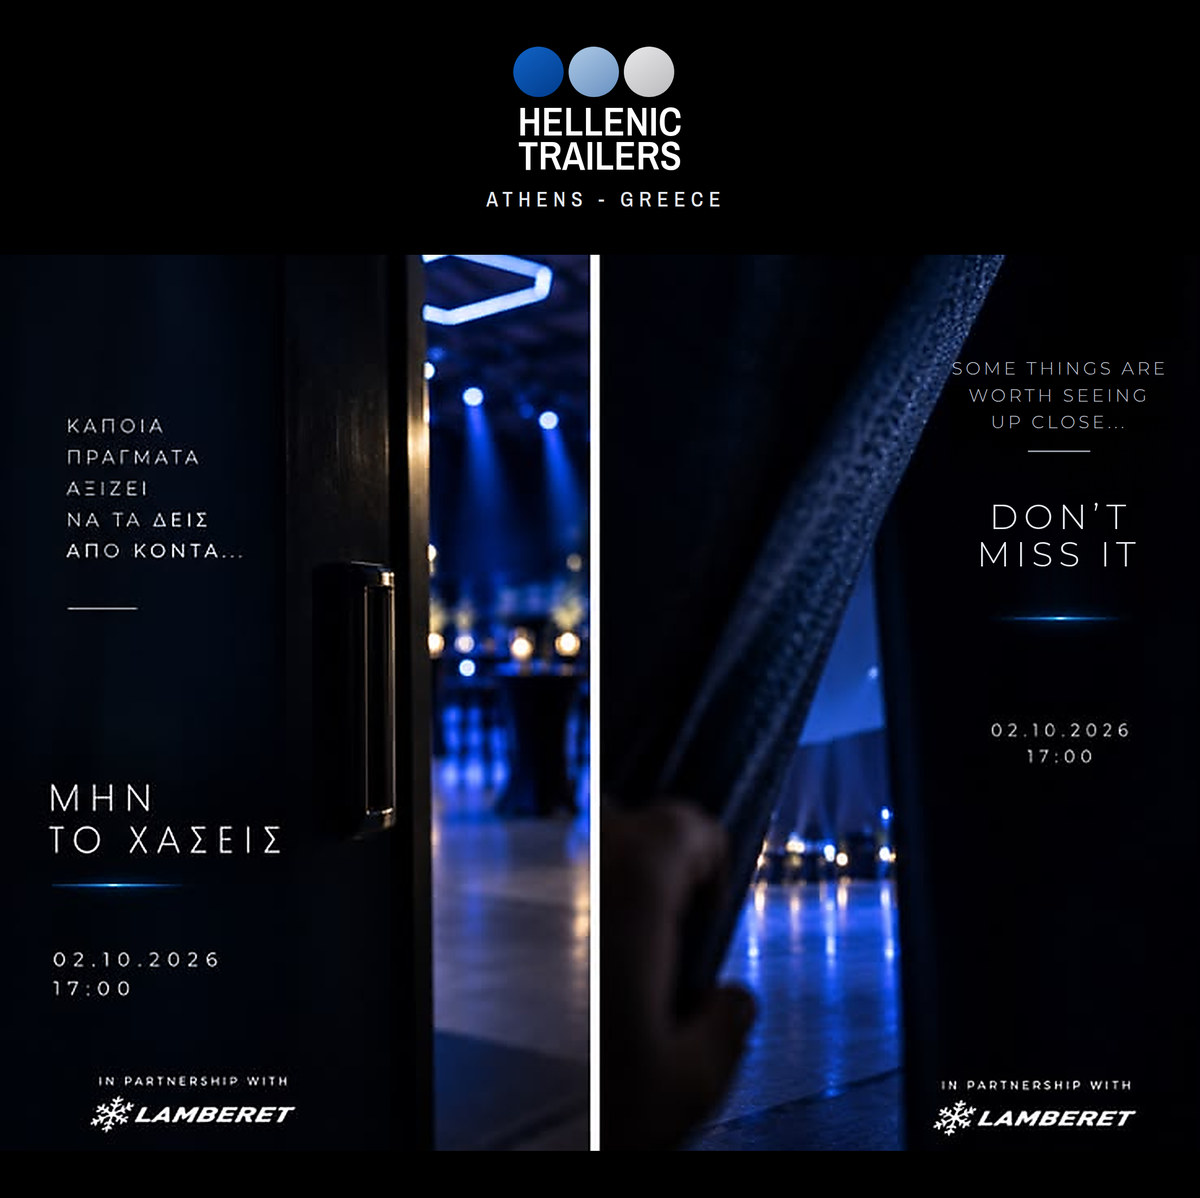
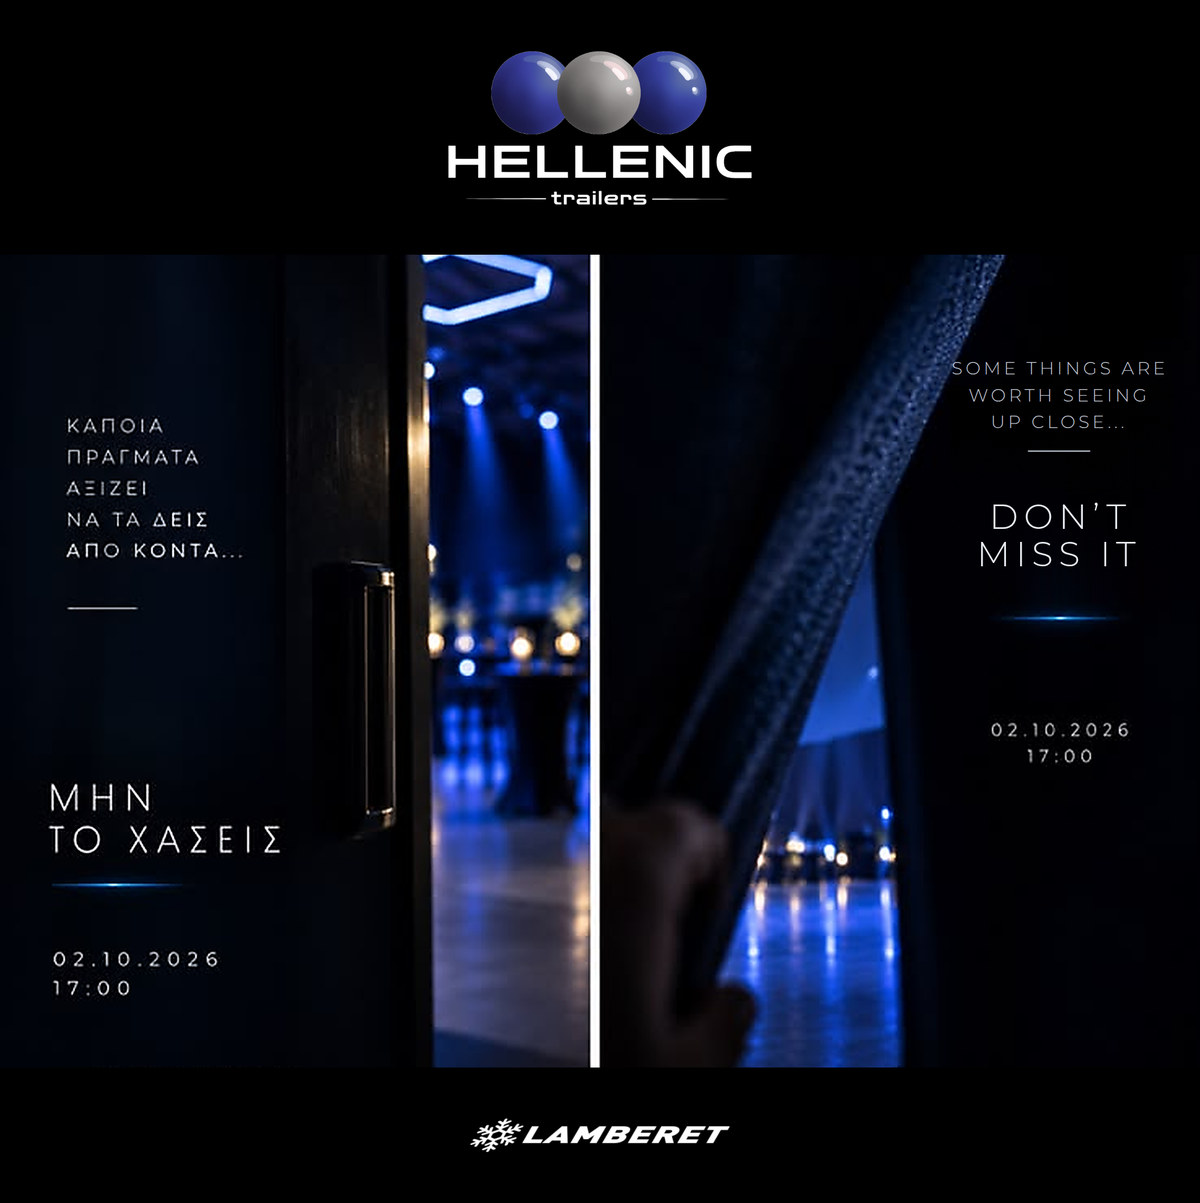
Use the company's own marks: Hellenic above, Lamberet below
Both marks now come from the repository rather than from the artwork:
logo-original.png at 2000x2000 and logo-lamberet.png. Each is dark on a
white ground, so neither reads on black — the ground is keyed out and the
wordmarks are knocked to white, while the three spheres keep their colours.
The wordmark's drop shadow is cut, or it renders as a white halo.

The strip at the foot of each panel went the same way as the one at the
head: gone, with a single Lamberet mark in a band of its own and no "in
partnership with" over it. Each mark now appears exactly once.

Claude-Session: https://claude.ai/code/session_01XY3hbV9Y9AwJjAF55ouYc1

diff --git a/.claude/drafts/2026-10-02-ypenthymisi.md b/.claude/drafts/2026-10-02-ypenthymisi.md
@@ -102,21 +102,20 @@
 
 | Αρχείο | Μέγεθος | Χρήση |
 |---|---|---|
-| `images/reminder-2026-10-02.jpg` | 2214×2210 | το πρωτότυπο |
-| `images/reminder-2026-10-02-email.jpg` | 1200×1198 | αυτό μπαίνει στο campaign |
+| `images/reminder-2026-10-02.jpg` | 2214×2220 | το πρωτότυπο |
+| `images/reminder-2026-10-02-email.jpg` | 1200×1203 | αυτό μπαίνει στο campaign |
 
-Το δίπτυχο «ΜΗΝ ΤΟ ΧΑΣΕΙΣ / DON'T MISS IT», ελληνικά αριστερά, αγγλικά δεξιά,
-με **ένα** λογότυπο Hellenic Trailers σε μαύρη λωρίδα στην κορυφή.
+Το δίπτυχο «ΜΗΝ ΤΟ ΧΑΣΕΙΣ / DON'T MISS IT», ελληνικά αριστερά, αγγλικά δεξιά.
+**Ένα** σήμα Hellenic Trailers σε μαύρη λωρίδα πάνω, **ένα** Lamberet κάτω,
+χωρίς το «in partnership with».
 
 | Ελληνικά (αριστερά) | Αγγλικά (δεξιά) |
 |---|---|
 | ΚΑΠΟΙΑ ΠΡΑΓΜΑΤΑ ΑΞΙΖΕΙ ΝΑ ΤΑ ΔΕΙΣ ΑΠΟ ΚΟΝΤΑ... | SOME THINGS ARE WORTH SEEING UP CLOSE... |
 | ΜΗΝ ΤΟ ΧΑΣΕΙΣ | DON'T MISS IT |
 
-Η ημερομηνία `02.10.2026 17:00`, η λάμψη κάτω από τον τίτλο και το «IN
-PARTNERSHIP WITH LAMBERET» έμειναν όπως ήταν. **Το «IN PARTNERSHIP WITH
-LAMBERET» εξακολουθεί να εμφανίζεται δύο φορές**, μία σε κάθε πάνελ — δεν
-ζητήθηκε να ενοποιηθεί, φεύγει με τον ίδιο τρόπο αν ζητηθεί.
+Η ημερομηνία `02.10.2026 17:00` και η λάμψη κάτω από τον τίτλο έμειναν όπως
+ήταν.
 
 **Alt text:**
 ```
@@ -133,33 +132,32 @@ LAMBERET» εξακολουθεί να εμφανίζεται δύο φορές*
 ### Πώς φτιάχτηκε, και πού είναι το ταβάνι
 
 **Η πηγή είναι στιγμιότυπο οθόνης, 738 px πλάτος.** Αυτό ορίζει το όριο: ό,τι
-πάνω από αυτό είναι παρεμβολή, όχι πραγματική λεπτομέρεια. Για να βγει κάτι
-γνήσια υψηλής ανάλυσης χρειάζονται τα **αρχικά αρχεία του teaser** και το
-**λογότυπο σε λευκή εκδοχή** (PNG ή SVG) — με αυτά ξαναβγαίνει σε όποιο μέγεθος
-χρειαστεί, χωρίς κανένα από τα παρακάτω τεχνάσματα.
+πάνω από αυτό είναι παρεμβολή, όχι πραγματική λεπτομέρεια. Για κάτι γνήσια
+υψηλής ανάλυσης χρειάζονται τα **αρχικά αρχεία του teaser**.
 
-Τι έγινε με όσα υπήρχαν:
-
+- **Τα δύο σήματα σε κάθε πάνελ δεν σβήστηκαν επί τόπου.** Στο δεξί πάνελ το
+  σήμα ακουμπάει την κουρτίνα και το μπάλωμα άφηνε σημάδι. Κόπηκαν οι δύο
+  λωρίδες που τα κρατούσαν — 285 px πάνω, 240 px κάτω — και μπήκαν στη θέση
+  τους μαύρες λωρίδες με ένα σήμα η καθεμία.
+- **Τα σήματα είναι τα κανονικά της εταιρείας, από το repository**:
+  `images/logo-original.png` (2000×2000) και `images/logo-lamberet.png`. Και τα
+  δύο είναι σκούρα σε λευκό φόντο, άρα δεν διαβάζονται σε μαύρο. Το φόντο
+  αφαιρέθηκε με flood fill από τις γωνίες, και το λεκτικό γυρίστηκε σε λευκό —
+  **οι τρεις σφαίρες κρατούν τα χρώματά τους**, μόνο το «HELLENIC trailers»
+  έγινε λευκό. Η σκιά του λεκτικού κόπηκε (κατώφλι φωτεινότητας 200/140),
+  αλλιώς έβγαινε λευκή λάμψη γύρω από τα γράμματα. Το Lamberet είχε ήδη σωστό
+  κανάλι διαφάνειας και απλώς βάφτηκε λευκό.
 - **Η φωτογραφία** μεγεθύνθηκε ×3 με Lanczos και μετά unsharp mask (ακτίνα 1,8,
   170%, κατώφλι 3). Το κατώφλι προστατεύει τα σχεδόν μαύρα επίπεδα από θόρυβο.
-  Χωρίς αυτό, τα ελληνικά έβγαιναν αισθητά πιο θολά από τα φρεσκογραμμένα
+  Χωρίς αυτό τα ελληνικά έβγαιναν αισθητά πιο θολά από τα φρεσκογραμμένα
   αγγλικά και η διαφορά φαινόταν.
 - **Τα ελληνικά δεν ξαναγράφτηκαν.** Το Montserrat δεν έχει ελληνικά στο Google
   Fonts, και μια άλλη γραμματοσειρά θα άλλαζε εικόνα που έχει ήδη εγκριθεί.
 - **Τα αγγλικά** μπήκαν σε Montserrat Light με headless Chromium, στις μετρήσεις
   του πρωτοτύπου: άξονας στο x=565 του πάνελ, ύψος κεφαλαίου 30 px για τον
   τίτλο και 15 px για το teaser, αποστάσεις γραμμών 46 και 33 px (σε κλίμακα
-  ×2· στην τελική εικόνα ×1,5 αυτών).
-- **Τα δύο λογότυπα** δεν σβήστηκαν επί τόπου: στο δεξί πάνελ το λογότυπο
-  ακουμπάει την κουρτίνα και το μπάλωμα άφηνε σημάδι. Κόπηκε ολόκληρη η λωρίδα
-  των 285 px που τα κρατούσε, και μπήκε μαύρη λωρίδα με ένα λογότυπο.
-- **Το λογότυπο ξαναφτιάχτηκε**, γιατί στο πρωτότυπο είναι μόλις 95×70 px και
-  μεγεθυμένο γίνεται πολτός. Οι τρεις κύκλοι και η στοίχιση μετρήθηκαν από την
-  εικόνα· η γραμματοσειρά είναι **Archivo Narrow 600**, που έπεσε σχεδόν πάνω
-  στις αναλογίες του πρωτοτύπου (πλάτος/ύψος κεφαλαίου 5,59 έναντι 5,65). Οι
-  δύο λέξεις είναι τραβηγμένες στο ίδιο πλάτος, όπως και στο πρωτότυπο.
-- **Τα ελληνικά κείμενα του δεξιού πάνελ** σβήστηκαν με Coons patch πάνω στο
-  περίγραμμα της περιοχής — δουλεύει επειδή το φόντο εκεί είναι σχεδόν καθαρό
+  ×2· στην τελική εικόνα ×1,5 αυτών). Τα ελληνικά κείμενα του δεξιού πάνελ
+  σβήστηκαν με Coons patch — δουλεύει επειδή το φόντο εκεί είναι σχεδόν καθαρό
   μαύρο (γύρω στο rgb 1,0,4), οπότε δεν μένει ραφή.
 
 ---
